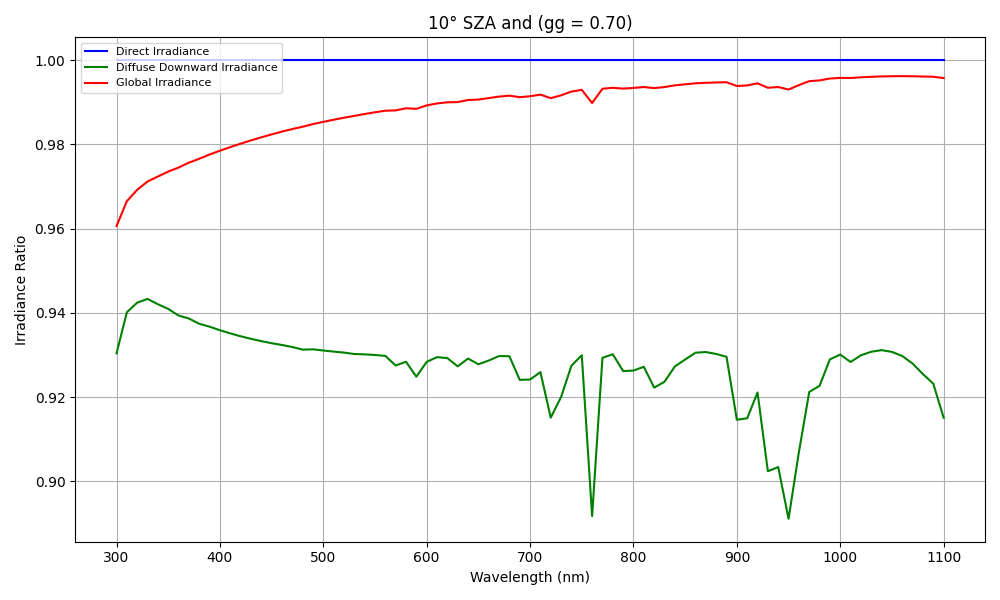
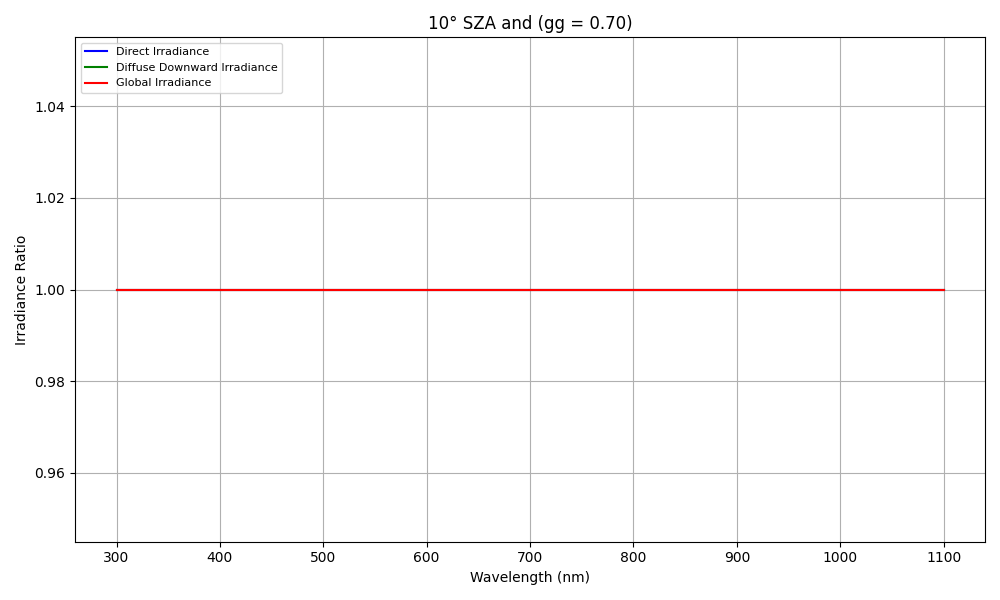
fixing reference gg

diff --git a/Radiation and Atmosphere Interaction/Report 4/PART_III/report4_part3.py b/Radiation and Atmosphere Interaction/Report 4/PART_III/report4_part3.py
@@ -44,24 +44,24 @@ for i in range(0,3):
 	eighty_five_sza[i]['global'] = eighty_five_sza[i]['direct horizontal irradiance'] + eighty_five_sza[i]['diffuse downward horizontal irradiance']
 
 # calculate ratios relative to gg 0.90 for each gg 
-index_0_90 = gg_list.index('0.90')
+index_0_70 = gg_list.index('0.70')
 
-ten_ref_direct = ten_sza[index_0_90]['direct horizontal irradiance']
-forty_ref_direct = forty_sza[index_0_90]['direct horizontal irradiance']
-seventy_ref_direct = seventy_sza[index_0_90]['direct horizontal irradiance']
-eighty_five_ref_direct = eighty_five_sza[index_0_90]['direct horizontal irradiance']
+ten_ref_direct = ten_sza[index_0_70]['direct horizontal irradiance']
+forty_ref_direct = forty_sza[index_0_70]['direct horizontal irradiance']
+seventy_ref_direct = seventy_sza[index_0_70]['direct horizontal irradiance']
+eighty_five_ref_direct = eighty_five_sza[index_0_70]['direct horizontal irradiance']
 
-ten_ref_diffuse = ten_sza[index_0_90]['diffuse downward horizontal irradiance']
-forty_ref_diffuse = forty_sza[index_0_90]['diffuse downward horizontal irradiance']
-seventy_ref_diffuse = seventy_sza[index_0_90]['diffuse downward horizontal irradiance']
-eighty_five_ref_diffuse = eighty_five_sza[index_0_90]['diffuse downward horizontal irradiance']
+ten_ref_diffuse = ten_sza[index_0_70]['diffuse downward horizontal irradiance']
+forty_ref_diffuse = forty_sza[index_0_70]['diffuse downward horizontal irradiance']
+seventy_ref_diffuse = seventy_sza[index_0_70]['diffuse downward horizontal irradiance']
+eighty_five_ref_diffuse = eighty_five_sza[index_0_70]['diffuse downward horizontal irradiance']
 
-ten_ref_global = ten_sza[index_0_90]['global']
-forty_ref_global = forty_sza[index_0_90]['global']
-seventy_ref_global = seventy_sza[index_0_90]['global']
-eighty_five_ref_global = eighty_five_sza[index_0_90]['global']
+ten_ref_global = ten_sza[index_0_70]['global']
+forty_ref_global = forty_sza[index_0_70]['global']
+seventy_ref_global = seventy_sza[index_0_70]['global']
+eighty_five_ref_global = eighty_five_sza[index_0_70]['global']
 
-# calculate the ratios for direct, diffuse downward and global irradiance relative to gg 0.90
+# calculate the ratios for direct, diffuse downward and global irradiance relative to gg 0.70
 for i in range(0, 3):
     # Direct irradiance ratio
     ten_sza[i]['direct_ratio'] = ten_sza[i]['direct horizontal irradiance'] / ten_ref_direct
